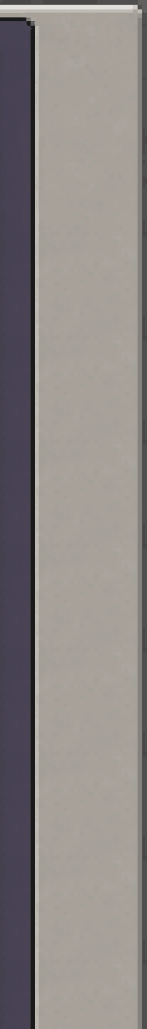
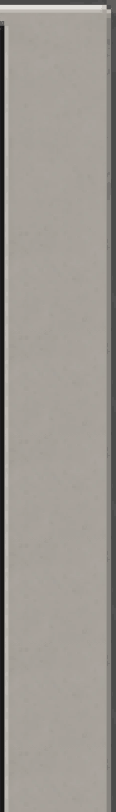
Keep Retro Grey's keys off its bezel: the bezel belongs to the window
The bake cut each grip from the painting's edge to the black of the screen, so Retro Grey's grips
took in the purple bezel round it: the inner 46 px of each, where the d-pad, HEAVY and the pills
stood. bake.py --frame now takes the window out over the colour round the black, to the dark
outline where the bezel ends, so the grips are the grey plastic alone, the outline along their
inner edge, and held sideways the game sits in the bezel's purple.

A regression test holds the grips to their grey, and a unit test keeps every handheld's controls
held sideways inside its panels, a slanting pill measured corner to corner.

Claude-Session: https://claude.ai/code/session_01JafcuBaonJce7ZKsur3d51

Changed region(s): [[0.0, 0.0, 0.8793, 1.0], [0.9052, 0.0, 0.9828, 1.0]]

diff --git a/apps/web/games/steel-and-dust/test/regression/pixel-skin-grips.test.js b/apps/web/games/steel-and-dust/test/regression/pixel-skin-grips.test.js
@@ -1,0 +1,51 @@
+import { readFileSync } from 'node:fs';
+import { describe, expect, it } from 'vitest';
+import { readPngAlpha } from '../support/png-alpha.js';
+
+const GAME = new URL('../../', import.meta.url);
+const TOKENS = readFileSync(new URL('styles/tokens.css', GAME), 'utf8');
+const PIECES = ['left', 'left-foot', 'right', 'right-foot'];
+
+const tokenColour = (name) => {
+  const hex = TOKENS.match(new RegExp(`--${name}: #([0-9a-f]{6});`))[1];
+
+  return [0, 2, 4].map((at) => parseInt(hex.slice(at, at + 2), 16));
+};
+
+// the share of a piece's painted pixels within `near` of a colour: close, as the shell's own dark
+// grey edge is only 19 from the bezel's purple
+function shareOf(path, colour, near = 16) {
+  const art = readPngAlpha(path);
+  let painted = 0;
+  let matching = 0;
+
+  for (let y = 0; y < art.height; y++) {
+    for (let x = 0; x < art.width; x++) {
+      if (art.alpha(x, y) > 0) {
+        const distance = art
+          .rgb(x, y)
+          .reduce((sum, value, i) => sum + Math.abs(value - colour[i]), 0);
+
+        painted += 1;
+        matching += distance < near ? 1 : 0;
+      }
+    }
+  }
+
+  return matching / painted;
+}
+
+describe("Retro Grey's grips held sideways", () => {
+  // the grips took in the purple bezel round the screen, its inner 46 px beside the game, so the
+  // d-pad, HEAVY and the pills stood on the bezel: a grip is the grey plastic alone, and the bezel
+  // the window's own colour round the game
+  it('are its grey plastic, the purple bezel left to the window round the game', () => {
+    const bezel = tokenColour('color-retro-bezel');
+
+    for (const piece of PIECES) {
+      const path = new URL(`assets/skins/retro/landscape-${piece}.png`, GAME);
+
+      expect(shareOf(path, bezel), piece).toBeLessThan(0.01);
+    }
+  });
+});

diff --git a/apps/web/games/steel-and-dust/styles/skin-retro.css b/apps/web/games/steel-and-dust/styles/skin-retro.css
@@ -1,9 +1,10 @@
 /* Retro Grey (src/data/skins/pixel.js): a grey plastic handheld, a purple bezel round its screen and
    red keys (assets/skins/retro/), painted by styles/skin-pixel.css. Its painting keeps no one size
-   of pixel, so it was baked as painted, every 2 by 2 px one pixel: its grips are 154 of those
-   across and its bands 2156 long. Upright, the game's screen has the bezel, deeper under it, as the
-   painting's has; its start and select pills slant 19 degrees, 34 by 21 pixels round a pill 34 by
-   14 */
+   of pixel, so it was baked as painted, every 2 by 2 px one pixel: its grips are 116 of those
+   across and its bands 1624 long. The bezel is the window's (bake.py --frame), so the keys stand on
+   the grey alone and the game sits in the bezel's purple; upright the bezel goes round the game's
+   screen, deeper under it, as the painting's does. Its start and select pills slant 19 degrees, 34
+   by 21 pixels round a pill 34 by 14 */
 .retro {
   --pixel-landscape-left: url('../assets/skins/retro/landscape-left.png');
   --pixel-landscape-left-foot: url('../assets/skins/retro/landscape-left-foot.png');
@@ -19,12 +20,12 @@
   --pixel-key-pill: url('../assets/skins/retro/key-pill.png');
   --pixel-key-pill-pressed: url('../assets/skins/retro/key-pill-pressed.png');
   --pixel-dpad: url('../assets/skins/retro/dpad.png');
-  --pixel-grip-pixels: 154;
-  --pixel-band-pixels: 2156;
+  --pixel-grip-pixels: 116;
+  --pixel-band-pixels: 1624;
   --pixel-pill-tilt: -19deg;
   --pixel-pill-art-width: 101%;
   --pixel-pill-art-height: 149%;
-  --pixel-window: var(--color-retro-window);
+  --pixel-window: var(--color-retro-bezel);
   --pixel-label: var(--color-cream);
   --pixel-held: var(--color-retro-held);
   --pixel-chin: 30px;

diff --git a/apps/web/games/steel-and-dust/test/unit/data/handheld.test.js b/apps/web/games/steel-and-dust/test/unit/data/handheld.test.js
@@ -23,6 +23,22 @@ describe('the handheld skins', () => {
     }
   });
 
+  // a key reaching past its panel stands on the bezel round the game, or on the game itself; a
+  // pill may be turned to a slant, so it is measured at its widest, corner to corner
+  it('keep every control held sideways on its panel, clear of the game’s screen', () => {
+    for (const skin of [CLEAR_SKINS['clear-lotus'], ...Object.values(PIXEL_SKINS)]) {
+      const { screen, items } = skin.layouts.landscape;
+      const widest = (item) => (item.aspect ? Math.hypot(1, item.aspect) : 1) * item.size;
+      const reach = (item) => Math.abs(item.at.dx) + widest(item) / 2;
+
+      for (const item of [...items, ...skin.pills.landscape]) {
+        const panel = item.at.x === 0 ? screen.left : screen.right;
+
+        expect(reach(item), `${skin.id} ${item.id}`).toBeLessThanOrEqual(panel);
+      }
+    }
+  });
+
   it('dress the shell and each control in the skin’s own classes, its pills shaped as its art', () => {
     const { layouts, pills } = PIXEL_SKINS.sandstone;
 

diff --git a/apps/web/games/steel-and-dust/styles/tokens.css b/apps/web/games/steel-and-dust/styles/tokens.css
@@ -81,7 +81,6 @@
   --color-sandstone-trim: #af763f;
   --color-sandstone-trim-dark: #30271a;
   --color-sandstone-held: color-mix(in srgb, var(--color-black) 38%, transparent);
-  --color-retro-window: #000000;
   --color-retro-bezel: #4a4355;
   --color-retro-outline: #151517;
   --color-retro-held: color-mix(in srgb, var(--color-black) 40%, transparent);

diff --git a/tools/pixel_skin/bake.py b/tools/pixel_skin/bake.py
@@ -1,11 +1,11 @@
 #!/usr/bin/env python3
 """Bake a pixel-art skin from ChatGPT's paintings (assets/skins/README.md, "Pixel skins").
 
-    python3 tools/pixel_skin/bake.py landscape PAINTING OUT_DIR [--block N]
+    python3 tools/pixel_skin/bake.py landscape PAINTING OUT_DIR [--block N] [--frame]
         the shell held sideways, its window in the middle: each grip running down from the top
         (landscape-left.png, landscape-right.png) and its foot (…-foot.png), the top and the
         bottom band reaching both ways from their ornaments (landscape-top.png, …-bottom.png)
-    python3 tools/pixel_skin/bake.py portrait PAINTING OUT_DIR [--block N] [--trim ROWS]
+    python3 tools/pixel_skin/bake.py portrait PAINTING OUT_DIR [--block N] [--trim ROWS] [--frame]
         the shell held upright, its window at the top: the rim round the window (portrait-crown),
         the emblem under it running down (portrait-body) and the foot (portrait-foot)
     python3 tools/pixel_skin/bake.py keys SHEET OUT_DIR
@@ -24,7 +24,7 @@ from PIL import Image
 
 sys.path.insert(0, os.path.dirname(os.path.dirname(os.path.abspath(__file__))))
 
-from pixel_skin.grid import content_box, read_painted, read_region, window_box  # noqa: E402
+from pixel_skin.grid import content_box, framed_box, read_painted, read_region, window_box  # noqa: E402
 from pixel_skin.keys import bake_keys  # noqa: E402
 from pixel_skin.pieces import extended_down, extended_left, extended_right, faded, folded, save  # noqa: E402
 
@@ -101,9 +101,15 @@ def long_band(band, length):
     return extended_left(right, left_segment, length)
 
 
-def landscape(image, out_dir, block=None):
+def window_of(image, seed, frame):
+    window = window_box(image, seed)
+
+    return framed_box(window, image) if frame else window
+
+
+def landscape(image, out_dir, block=None, frame=False):
     left, top, right, bottom = content_box(image)
-    window = window_box(image, (image.shape[1] // 2, image.shape[0] // 2))
+    window = window_of(image, (image.shape[1] // 2, image.shape[0] // 2), frame)
     window_left, window_top, window_right, window_bottom = window
     boxes = [
         (left, top, window_left, bottom),
@@ -140,9 +146,9 @@ def crown_of(top, sides, window_colour):
     return crown
 
 
-def portrait(image, out_dir, block=None, trim=WINDOW_TRIM):
+def portrait(image, out_dir, block=None, trim=WINDOW_TRIM, frame=False):
     left, top, right, bottom = content_box(image)
-    window = window_box(image, (image.shape[1] // 2, image.shape[0] // 6))
+    window = window_of(image, (image.shape[1] // 2, image.shape[0] // 6), frame)
     window_left, window_top, window_right, window_bottom = window
     boxes = [
         (left, top, right, window_top),
@@ -172,15 +178,18 @@ def main():
                              'whose blocks are no one size (grid.py, read_painted)')
     parser.add_argument('--trim', type=int, default=WINDOW_TRIM,
                         help='rows of the painted frame under the upright window to leave out')
+    parser.add_argument('--frame', action='store_true',
+                        help='the window takes in the frame round the black, a screen\'s bezel, '
+                             'so the grips are the shell alone and no key stands on the bezel')
     args = parser.parse_args()
     image = load(args.source, 'RGBA' if args.command == 'keys' else 'RGB')
 
     if args.command == 'keys':
         bake_keys(image, args.out_dir)
     elif args.command == 'landscape':
-        landscape(image, args.out_dir, args.block)
+        landscape(image, args.out_dir, args.block, args.frame)
     else:
-        portrait(image, args.out_dir, args.block, args.trim)
+        portrait(image, args.out_dir, args.block, args.trim, args.frame)
 
 
 if __name__ == '__main__':

diff --git a/tools/pixel_skin/grid.py b/tools/pixel_skin/grid.py
@@ -43,6 +43,32 @@ def window_box(image, seed):
     return left + 1, top + 1, right, bottom
 
 
+def reach(line, start, step, near=40):
+    """How far along `line` from `start` the colour at `start` holds, `step` by `step`."""
+    colour = line[start].astype(int)
+    at = start
+
+    while 0 <= at + step < len(line) and np.abs(line[at + step].astype(int) - colour).sum() < near:
+        at += step
+
+    return at
+
+
+def framed_box(window_box_found, image):
+    """The window with the frame round it, out to where the frame's colour ends: a screen's bezel
+    belongs to the window, not to the grips beside it, or the keys would stand on it. The frame is
+    read a few px out from the black, past the blend between them"""
+    left, top, right, bottom = window_box_found
+    row, column = image[(top + bottom) // 2], image[:, (left + right) // 2]
+
+    return (
+        reach(row, left - 4, -1),
+        reach(column, top - 4, -1),
+        reach(row, right + 3, 1) + 1,
+        reach(column, bottom + 3, 1) + 1,
+    )
+
+
 def edge_counts(region, axis):
     """How many colour changes fall on each boundary between two pixels along `axis` (1 for x)."""
     steps = np.abs(np.diff(region[..., :3].astype(int), axis=axis)).sum(axis=2) > EDGE

diff --git a/apps/web/games/steel-and-dust/assets/skins/README.md b/apps/web/games/steel-and-dust/assets/skins/README.md
@@ -115,15 +115,18 @@ screen has the window's bronze trim (`--shadow-sandstone-bezel`). Its bands are 
 
 Grey plastic, a purple bezel round the screen with an LED, two screws and a speaker grille, red
 round keys and grey pills slanting 19 degrees, as a 1989 handheld's start and select. Baked as
-painted (`--block 2`, its grips 154 of those pixels across), upright leaving out the 33 rows of
-the painted bezel under the window (`--trim 33`), which `--shadow-retro-bezel` draws round the game's
-screen instead, deeper under it. Its keys read on 10 px blocks. A slanting pill's key is the pill
-along itself, 34 by 14 pixels, turned as it slants (`--pixel-pill-tilt`), so its label, ring and
-touch lie along it, and its art is turned back level under the label at the size of the art's box
-(`--pixel-pill-art-*`).
+painted (`--block 2`, its grips 116 of those pixels across and its bands 1624 long). Its bezel
+belongs to the window (`--frame`, the window taken out over the colour round the black to where it
+ends): left in the grips, it made their inner 46 px purple, and the d-pad, HEAVY and the pills
+stood on it. So held sideways the game sits in the bezel's purple (`--pixel-window`), and upright
+the bake leaves out the bezel's outline under the window too (`--trim 5`), as
+`--shadow-retro-bezel` draws the bezel round the game's screen, deeper under it. Its keys read on
+10 px blocks. A slanting pill's key is the pill along itself, 34 by 14 pixels, turned as it slants
+(`--pixel-pill-tilt`), so its label, ring and touch lie along it, and its art is turned back level
+under the label at the size of the art's box (`--pixel-pill-art-*`).
 
 ```bash
-python3 tools/pixel_skin/bake.py landscape shell-sideways.png apps/web/games/steel-and-dust/assets/skins/retro --block 2
-python3 tools/pixel_skin/bake.py portrait shell-upright.png apps/web/games/steel-and-dust/assets/skins/retro --block 2 --trim 33
+python3 tools/pixel_skin/bake.py landscape shell-sideways.png apps/web/games/steel-and-dust/assets/skins/retro --block 2 --frame
+python3 tools/pixel_skin/bake.py portrait shell-upright.png apps/web/games/steel-and-dust/assets/skins/retro --block 2 --frame --trim 5
 python3 tools/pixel_skin/bake.py keys keys.png apps/web/games/steel-and-dust/assets/skins/retro
 ```
